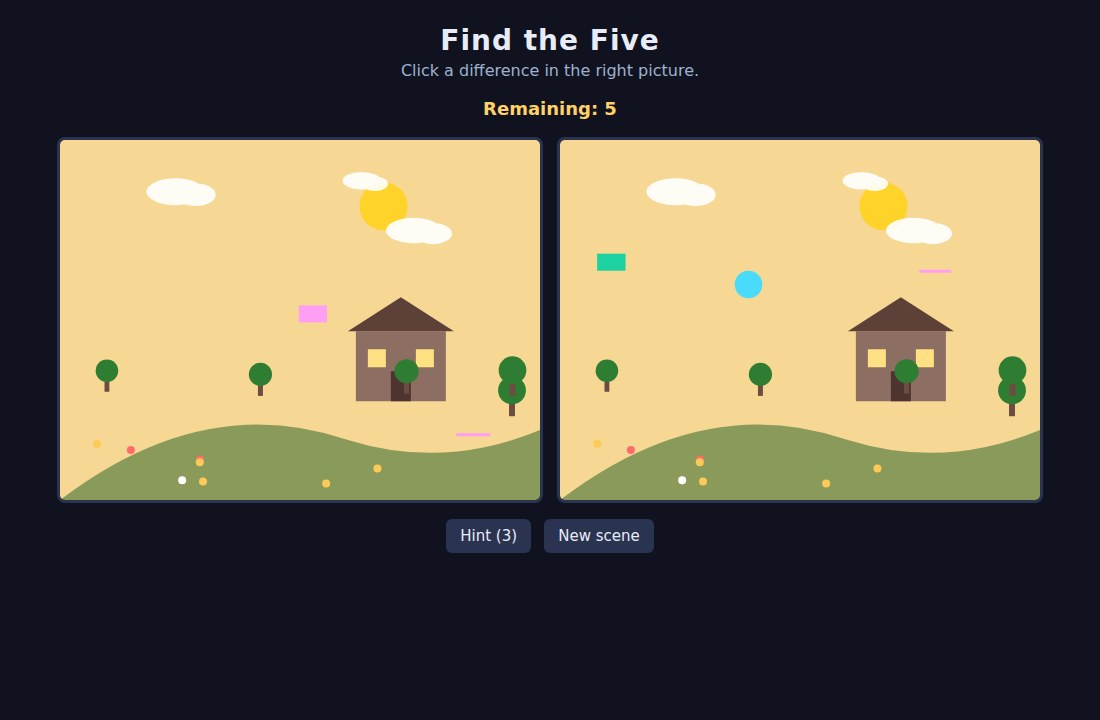
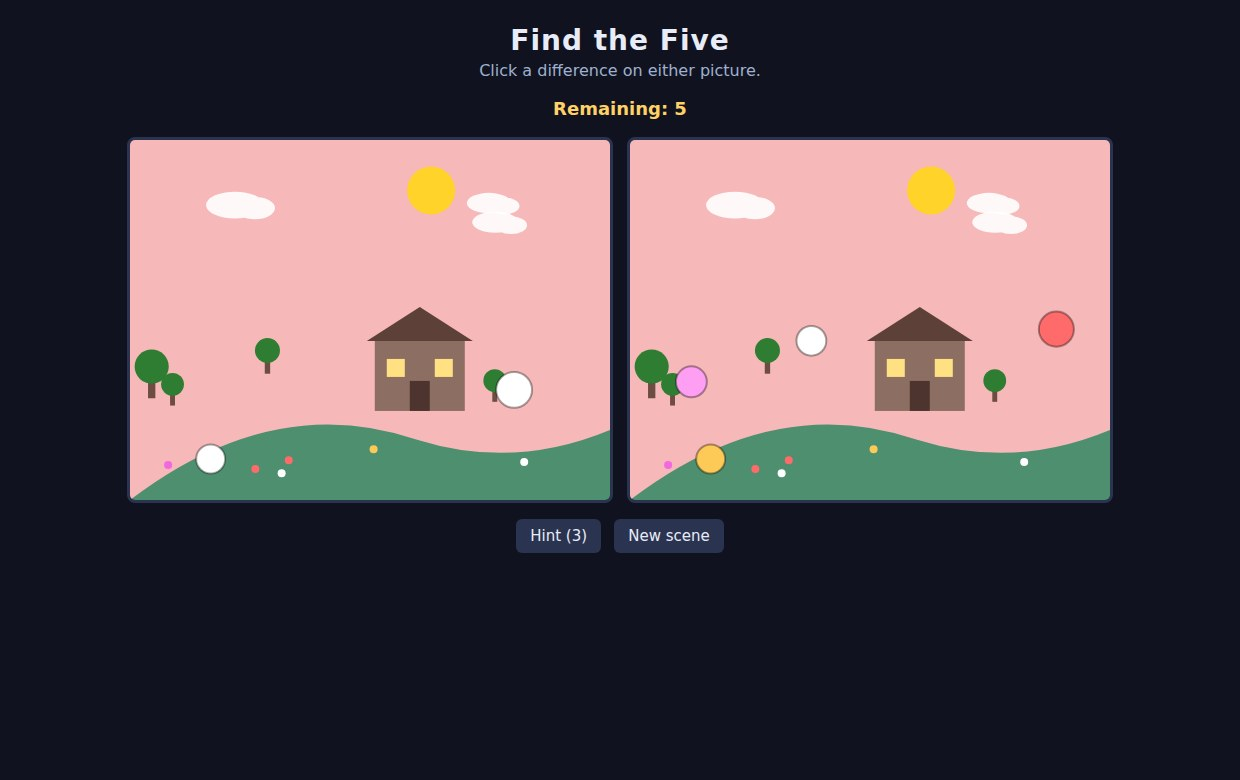
game built by agent session: Find the Five with real screenshots

diff --git a/game/src/main.js b/game/src/main.js
@@ -1,8 +1,10 @@
-// Boot, input, game loop: click a difference in the right panel to mark it.
+// Boot, input, and game state: click a difference on either panel to mark it.
 import { makeScene, drawScene, W, H, DIFF_COUNT } from './scene.js';
 
-const left = document.getElementById('left').getContext('2d');
-const right = document.getElementById('right').getContext('2d');
+const leftCanvas = document.getElementById('left');
+const rightCanvas = document.getElementById('right');
+const left = leftCanvas.getContext('2d');
+const right = rightCanvas.getContext('2d');
 const statusEl = document.getElementById('status');
 const counterEl = document.getElementById('counter');
 const hintBtn = document.getElementById('hint');
@@ -11,27 +13,29 @@ const newBtn = document.getElementById('new');
 let seed = (Math.random() * 4294967296) >>> 0;
 const params = new URLSearchParams(location.search);
 if (params.get('seed')) seed = Number(params.get('seed')) >>> 0;
-const prefound = (params.get('found') || '').split(',').filter(Boolean).map(Number);
+
 let model = null;
 let found = new Set();
 let hints = 3;
-let marks = []; // {x,y,ok}
+let marks = []; // transient click/hint markers: {x, y, ok, hint}
 
 function load() {
   model = makeScene(seed);
-  found = new Set(prefound.filter((i) => model.diffs[i]));
+  found = new Set();
   marks = [];
   hints = 3;
   hintBtn.textContent = `Hint (${hints})`;
+  hintBtn.disabled = false;
+  statusEl.style.color = '';
   counterEl.textContent = `Remaining: ${DIFF_COUNT}`;
-  statusEl.textContent = 'Click a difference in the right picture.';
+  statusEl.textContent = 'Click a difference on either picture.';
   paint();
 }
 
 function paint() {
-  drawScene(left, model.scene, model.diffs, 'left', new Set([...found].filter((i) => model.diffs[i].side === 'left')));
-  drawScene(right, model.scene, model.diffs, 'right', new Set([...found].filter((i) => model.diffs[i].side === 'right')));
-  // draw markers on both panels for found diffs
+  drawScene(left, model.scene, model.diffs, 'left', found);
+  drawScene(right, model.scene, model.diffs, 'right', found);
+  // green rings on both panels for found differences
   for (const i of found) {
     const d = model.diffs[i];
     for (const ctx of [left, right]) {
@@ -42,20 +46,22 @@ function paint() {
       ctx.stroke();
     }
   }
+  // transient markers
   for (const m of marks) {
-    const ctx = m.right ? right : left;
-    ctx.strokeStyle = m.ok ? '#06d6a0' : '#e5534b';
-    ctx.lineWidth = 2;
-    ctx.beginPath();
-    ctx.arc(m.x, m.y, 10, 0, Math.PI * 2);
-    ctx.stroke();
-    if (!m.ok) {
+    for (const ctx of [left, right]) {
+      ctx.strokeStyle = m.ok ? '#06d6a0' : '#e5534b';
+      ctx.lineWidth = 2;
       ctx.beginPath();
-      ctx.moveTo(m.x - 7, m.y - 7);
-      ctx.lineTo(m.x + 7, m.y + 7);
-      ctx.moveTo(m.x + 7, m.y - 7);
-      ctx.lineTo(m.x - 7, m.y + 7);
+      ctx.arc(m.x, m.y, m.hint ? m.hintRadius : 10, 0, Math.PI * 2);
       ctx.stroke();
+      if (!m.ok && !m.hint) {
+        ctx.beginPath();
+        ctx.moveTo(m.x - 7, m.y - 7);
+        ctx.lineTo(m.x + 7, m.y + 7);
+        ctx.moveTo(m.x + 7, m.y - 7);
+        ctx.lineTo(m.x - 7, m.y + 7);
+        ctx.stroke();
+      }
     }
   }
 }
@@ -68,7 +74,8 @@ function canvasPos(canvas, ev) {
   };
 }
 
-document.getElementById('right').addEventListener('click', (ev) => {
+function handleClick(ev) {
+  if (found.size === DIFF_COUNT) return;
   const p = canvasPos(ev.currentTarget, ev);
   let hit = -1;
   for (let i = 0; i < model.diffs.length; i++) {
@@ -78,38 +85,44 @@ document.getElementById('right').addEventListener('click', (ev) => {
   }
   if (hit >= 0) {
     found.add(hit);
-    marks.push({ x: p.x, y: p.y, ok: true, right: true });
+    marks.push({ x: p.x, y: p.y, ok: true });
     counterEl.textContent = `Remaining: ${DIFF_COUNT - found.size}`;
     if (found.size === DIFF_COUNT) {
-      statusEl.textContent = 'All found! Press New scene for another round.';
+      statusEl.textContent = 'All five found! Press New scene for another round.';
       statusEl.style.color = '#06d6a0';
     } else {
       statusEl.textContent = 'Found one! Keep hunting.';
+      statusEl.style.color = '';
     }
   } else {
-    marks.push({ x: p.x, y: p.y, ok: false, right: true });
+    marks.push({ x: p.x, y: p.y, ok: false });
     statusEl.textContent = 'Nothing there. Look closer.';
+    statusEl.style.color = '';
   }
   paint();
-});
+}
+
+leftCanvas.addEventListener('click', handleClick);
+rightCanvas.addEventListener('click', handleClick);
 
 hintBtn.addEventListener('click', () => {
   if (hints <= 0) return;
-  const left = model.diffs.map((d, i) => i).filter((i) => !found.has(i));
-  if (!left.length) return;
-  const i = left[Math.floor(Math.random() * left.length)];
+  const remaining = model.diffs.map((d, i) => i).filter((i) => !found.has(i));
+  if (!remaining.length) return;
+  const i = remaining[Math.floor(Math.random() * remaining.length)];
   const d = model.diffs[i];
   hints--;
   hintBtn.textContent = `Hint (${hints})`;
-  marks.push({ x: d.x, y: d.y, ok: true, right: true, hint: true });
-  // reveal: pulse marker by drawing a ring (not counted as found)
+  if (hints === 0) hintBtn.disabled = true;
+  marks.push({ x: d.x, y: d.y, ok: true, hint: true, hintRadius: d.r + 10 });
+  statusEl.textContent = 'Hint: a difference is circled on both pictures.';
+  statusEl.style.color = '';
   paint();
-  setTimeout(paint, 400);
+  setTimeout(() => { marks = marks.filter((m) => !m.hint); paint(); }, 1500);
 });
 
 newBtn.addEventListener('click', () => {
   seed = (Math.random() * 4294967296) >>> 0;
-  statusEl.style.color = '';
   load();
 });
 

diff --git a/game/src/scene.js b/game/src/scene.js
@@ -1,5 +1,9 @@
-// Scene generation: one base scene, then N differences applied to the right copy.
-// A difference is {kind, x, y, r} — a shape that exists only on one side.
+// Scene generation: one base landscape, then DIFF_COUNT differences applied
+// to one side or the other. A difference is:
+//   { type, x, y, r, color, altColor }
+//   type 'extra'    — shape exists only on the right
+//   type 'missing'  — shape exists only on the left
+//   type 'recolor'  — same shape on both sides, different color on the right
 import { createRandom } from './random.js';
 
 export const W = 480;
@@ -11,6 +15,8 @@ const PALETTE = {
   hill: ['#5aa469', '#8a9a5b', '#4d8f6f', '#7a9e4f', '#6b9e78'],
   sun: ['#ffd93d', '#ffb347', '#ffe066', '#ff9f43', '#ffd32a'],
 };
+const SHAPE_COLORS = ['#ff6b6b', '#48dbfb', '#1dd1a1', '#feca57', '#ff9ff3', '#ffffff'];
+const ALT_COLORS = ['#48dbfb', '#ff6b6b', '#feca57', '#1dd1a1', '#ff9ff3', '#f368e0'];
 
 export function makeScene(seed) {
   const rnd = createRandom(seed);
@@ -38,23 +44,35 @@ export function makeScene(seed) {
   for (let i = 0; i < nFlowers; i++) {
     scene.flowers.push({ x: 15 + rnd() * (W - 30), y: 300 + rnd() * 45, c: pick(['#ff6b6b', '#feca57', '#f368e0', '#ffffff']) });
   }
-  // Choose DIFF_COUNT well-separated difference spots
+  // Choose DIFF_COUNT well-separated difference spots.
   const diffs = [];
   let guard = 0;
   while (diffs.length < DIFF_COUNT && guard++ < 500) {
     const d = {
-      kind: ['shape', 'color', 'missing'][Math.floor(rnd() * 3)],
+      type: ['extra', 'missing', 'recolor'][Math.floor(rnd() * 3)],
       x: 30 + rnd() * (W - 60),
       y: 90 + rnd() * (H - 130),
       r: 10 + rnd() * 8,
-      color: pick(['#ff6b6b', '#48dbfb', '#1dd1a1', '#feca57', '#ff9ff3']),
-      side: rnd() < 0.5 ? 'left' : 'right',
+      color: pick(SHAPE_COLORS),
+      altColor: pick(ALT_COLORS),
     };
     if (diffs.every((o) => Math.hypot(o.x - d.x, o.y - d.y) > 70)) diffs.push(d);
   }
   return { scene, diffs, seed };
 }
 
+function drawDiffShape(ctx, d, color) {
+  ctx.fillStyle = color;
+  ctx.beginPath();
+  ctx.arc(d.x, d.y, d.r, 0, Math.PI * 2);
+  ctx.fill();
+  ctx.strokeStyle = 'rgba(0,0,0,0.35)';
+  ctx.lineWidth = 2;
+  ctx.stroke();
+}
+
+// Draw the base scene plus the differences that belong to `side`.
+// Differences already in `found` are omitted (both sides look identical there).
 export function drawScene(ctx, scene, diffs, side, found) {
   // sky
   ctx.fillStyle = scene.sky;
@@ -72,7 +90,7 @@ export function drawScene(ctx, scene, diffs, side, found) {
     ctx.ellipse(c.x + 18 * c.s, c.y + 3, 18 * c.s, 10 * c.s, 0, 0, Math.PI * 2);
     ctx.fill();
   }
-  // hills
+  // hill
   ctx.fillStyle = scene.hill;
   ctx.beginPath();
   ctx.moveTo(0, H);
@@ -111,26 +129,12 @@ export function drawScene(ctx, scene, diffs, side, found) {
     ctx.arc(f.x, f.y, 4, 0, Math.PI * 2);
     ctx.fill();
   }
-  // differences: drawn only on their side unless found
+  // differences for this side (skip ones already found)
   for (let i = 0; i < diffs.length; i++) {
-    const d = diffs[i];
-    if (d.side !== side) continue;
     if (found.has(i)) continue;
-    ctx.fillStyle = d.color;
-    if (d.kind === 'shape') {
-      ctx.beginPath();
-      ctx.arc(d.x, d.y, d.r, 0, Math.PI * 2);
-      ctx.fill();
-    } else if (d.kind === 'color') {
-      ctx.fillRect(d.x - d.r, d.y - d.r * 0.6, d.r * 2, d.r * 1.2);
-    } else {
-      // "missing": draw a small mark only on the side that has it
-      ctx.strokeStyle = d.color;
-      ctx.lineWidth = 3;
-      ctx.beginPath();
-      ctx.moveTo(d.x - d.r, d.y);
-      ctx.lineTo(d.x + d.r, d.y);
-      ctx.stroke();
-    }
+    const d = diffs[i];
+    if (d.type === 'extra' && side === 'right') drawDiffShape(ctx, d, d.color);
+    else if (d.type === 'missing' && side === 'left') drawDiffShape(ctx, d, d.color);
+    else if (d.type === 'recolor') drawDiffShape(ctx, d, side === 'right' ? d.altColor : d.color);
   }
 }

diff --git a/game/src/style.css b/game/src/style.css
@@ -1,11 +1,12 @@
-:root { --bg:#10131f; --ink:#e8ecf8; --panel:#1a2032; --accent:#ffd166; --good:#06d6a0; }
+:root { --bg:#10131f; --ink:#e8ecf8; --panel:#1a2032; --accent:#ffd166; --good:#06d6a0; --bad:#e5534b; }
 * { box-sizing: border-box; }
 body { margin:0; background:var(--bg); color:var(--ink); font-family:system-ui,sans-serif; display:flex; justify-content:center; }
 #app { padding:16px; text-align:center; }
 h1 { margin:8px 0 2px; font-size:28px; letter-spacing:1px; }
 #status { color:#9fb0d0; margin:4px 0; }
 #counter { font-size:18px; color:var(--accent); font-weight:700; }
-#panels { display:flex; gap:14px; justify-content:center; margin:10px 0; }
-canvas { background:var(--panel); border:3px solid #2a3350; border-radius:8px; cursor:crosshair; }
+#panels { display:flex; gap:14px; justify-content:center; margin:10px 0; flex-wrap:wrap; }
+canvas { background:var(--panel); border:3px solid #2a3350; border-radius:8px; cursor:crosshair; max-width:100%; height:auto; }
 #hintline button { background:#2a3350; color:var(--ink); border:0; border-radius:6px; padding:8px 14px; font-size:15px; cursor:pointer; margin:0 4px; }
 #hintline button:hover { background:#3a4670; }
+#hintline button:disabled { opacity:0.45; cursor:default; }

diff --git a/game/index.html b/game/index.html
@@ -10,7 +10,7 @@
 <main id="app">
   <header>
     <h1>Find the Five</h1>
-    <p id="status">Click a difference in the right picture.</p>
+    <p id="status">Click a difference on either picture.</p>
     <p id="counter">Remaining: 5</p>
   </header>
   <div id="panels">

diff --git a/game/src/random.js b/game/src/random.js
@@ -1,4 +1,4 @@
-// Deterministic PRNG so a scene is reproducible from its seed.
+// Deterministic PRNG (mulberry32) so a scene is reproducible from its seed.
 export function createRandom(seed) {
   let s = seed >>> 0;
   return function () {
